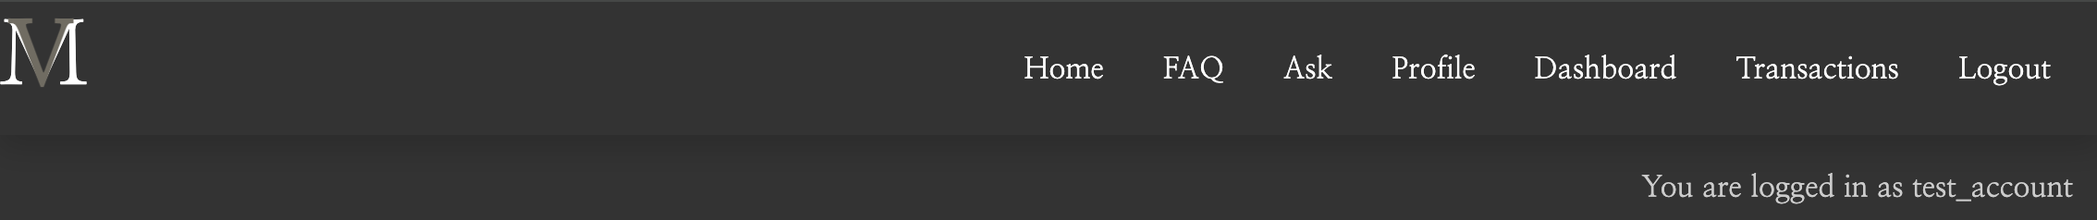
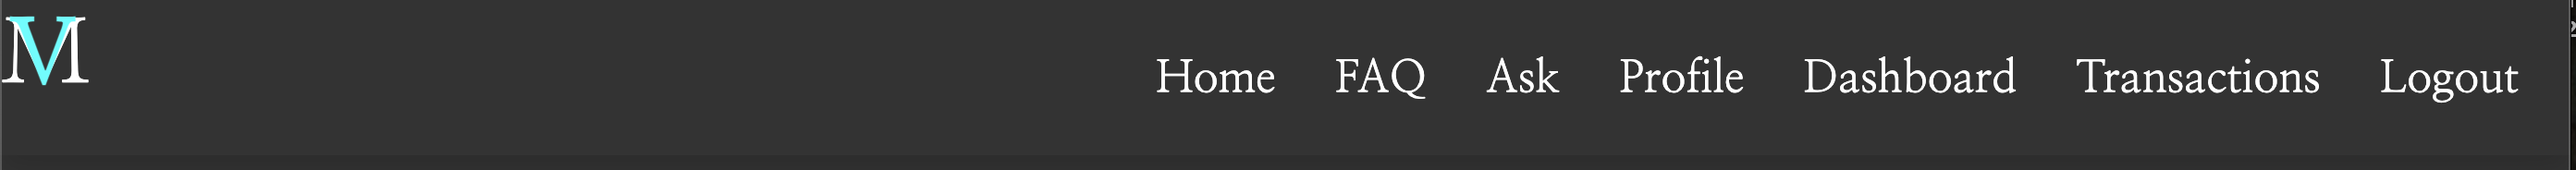
Del font size for screen >= 965px

Changed region(s): [[0.4321, 0.0, 1.0, 1.0], [0.0, 0.0815, 0.0617, 0.4891]]

diff --git a/static/css/base.css b/static/css/base.css
@@ -36,7 +36,7 @@ body {
 /* Style for logo letter V overlap the M */
 #logoV {
     left: 5.6px !important;
-    color: #706c61 !important;
+    color: #00FFFF !important;
     font-weight: bold;
 }
 
@@ -107,9 +107,7 @@ body {
     .slogan-right {
         color: #333333  !important;
     }
-    body {
-        font-size: x-large !important;
-    }
+    
 }
 
 

diff --git a/staticfiles/css/base.css b/staticfiles/css/base.css
@@ -36,7 +36,7 @@ body {
 /* Style for logo letter V overlap the M */
 #logoV {
     left: 5.6px !important;
-    color: #706c61 !important;
+    color: #00FFFF !important;
     font-weight: bold;
 }
 
@@ -107,9 +107,7 @@ body {
     .slogan-right {
         color: #333333  !important;
     }
-    body {
-        font-size: x-large !important;
-    }
+    
 }
 
 
